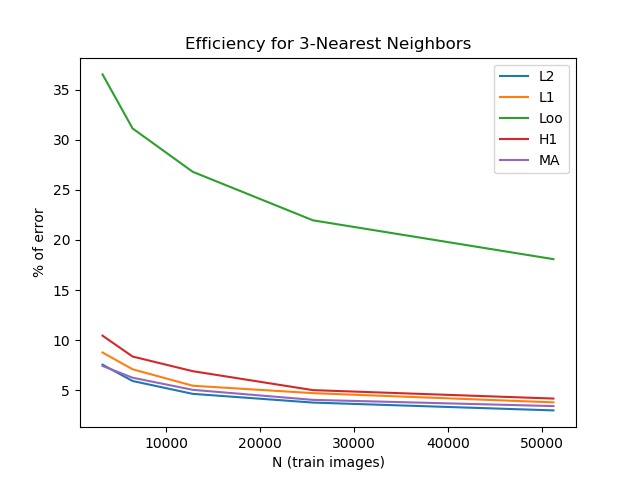
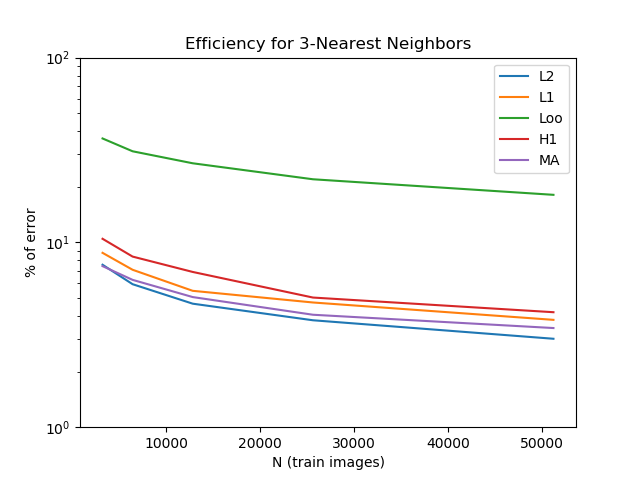
Logarithmic scale.

diff --git a/plot.py b/plot.py
@@ -6,6 +6,10 @@ def plot_k(kthis):
 	f=open("data/eff.txt","r")
 
 	plt.figure()
+	plt.yscale('log')
+	#plt.xscale('log')
+	
+	
 	x = dict()
 	y= dict()
 	
@@ -35,6 +39,7 @@ def plot_k(kthis):
 	plt.xlabel("N (train images)")
 	plt.ylabel("% of error")
 	plt.title(f"Efficiency for {kthis}-Nearest Neighbors")
+	plt.ylim(1,100)
 	plt.savefig(f"plot_{kthis}.png")
 	f.close()
 
